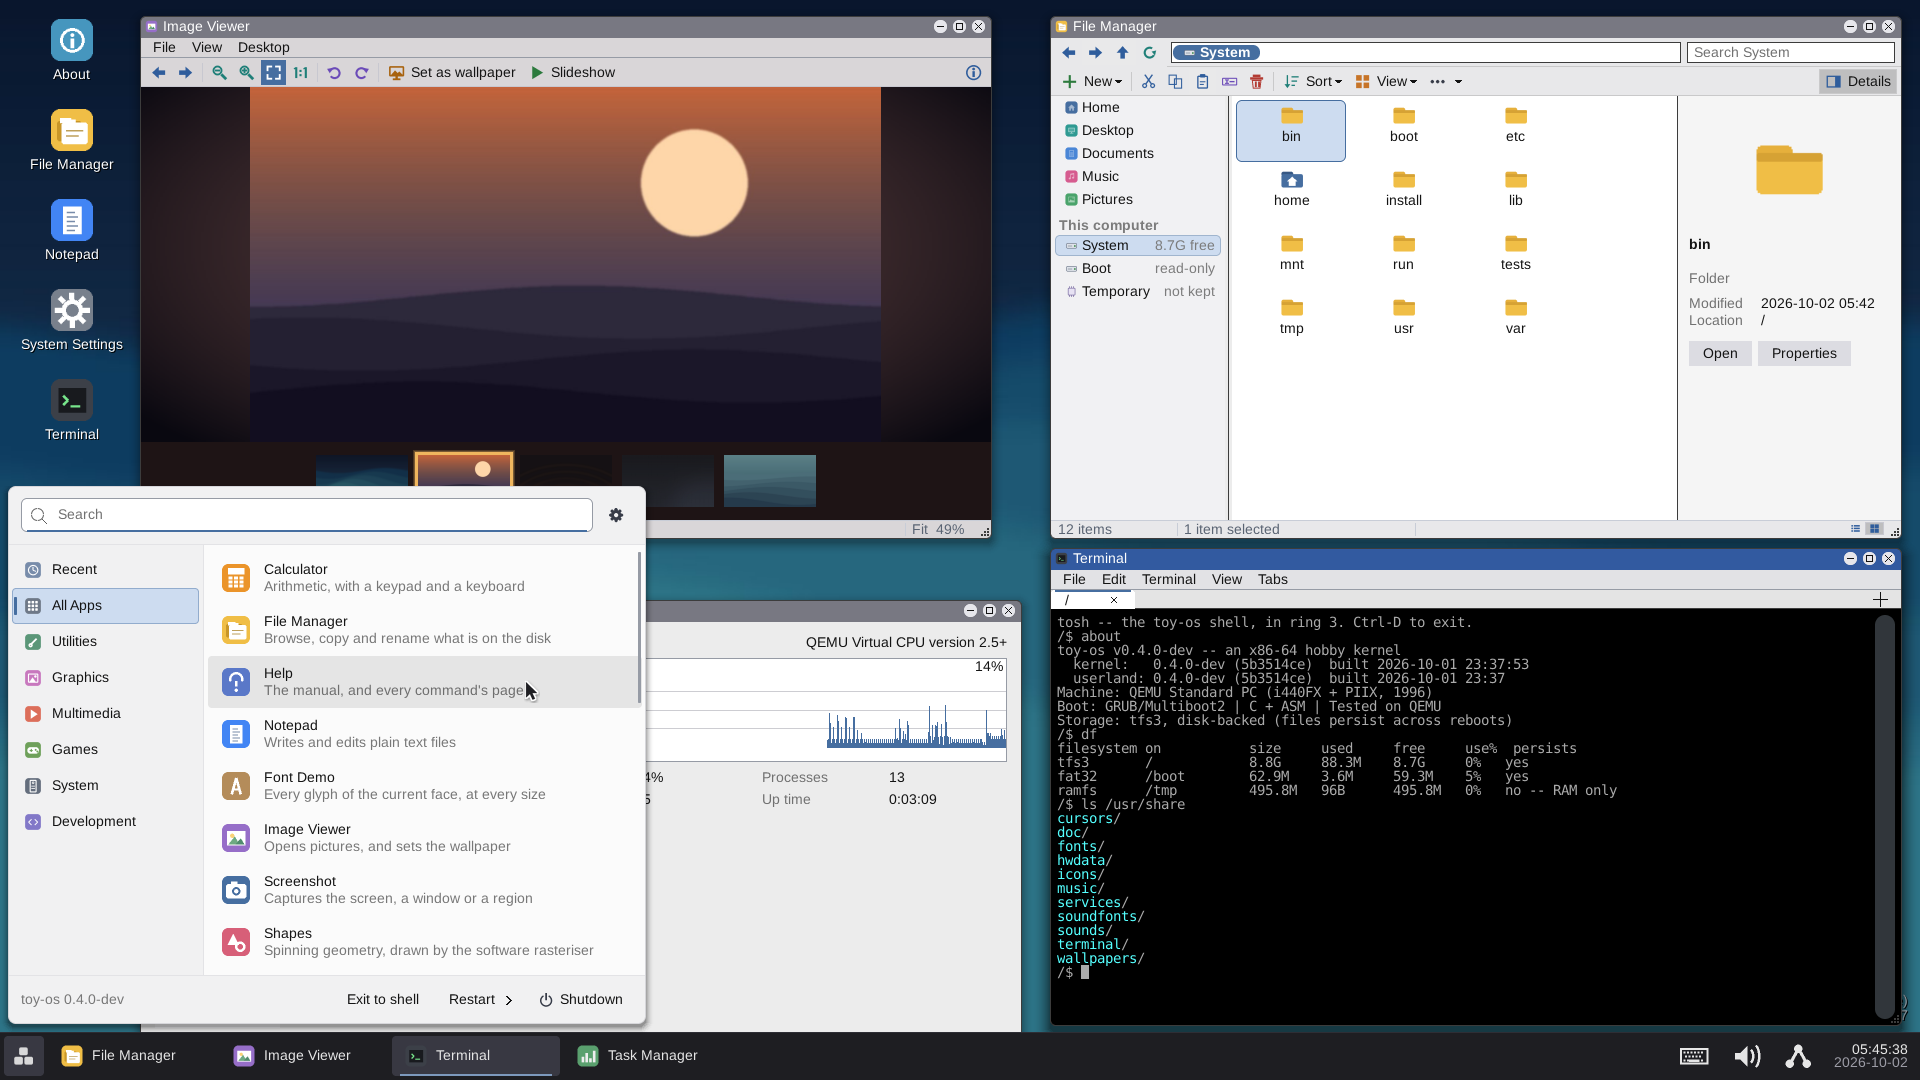
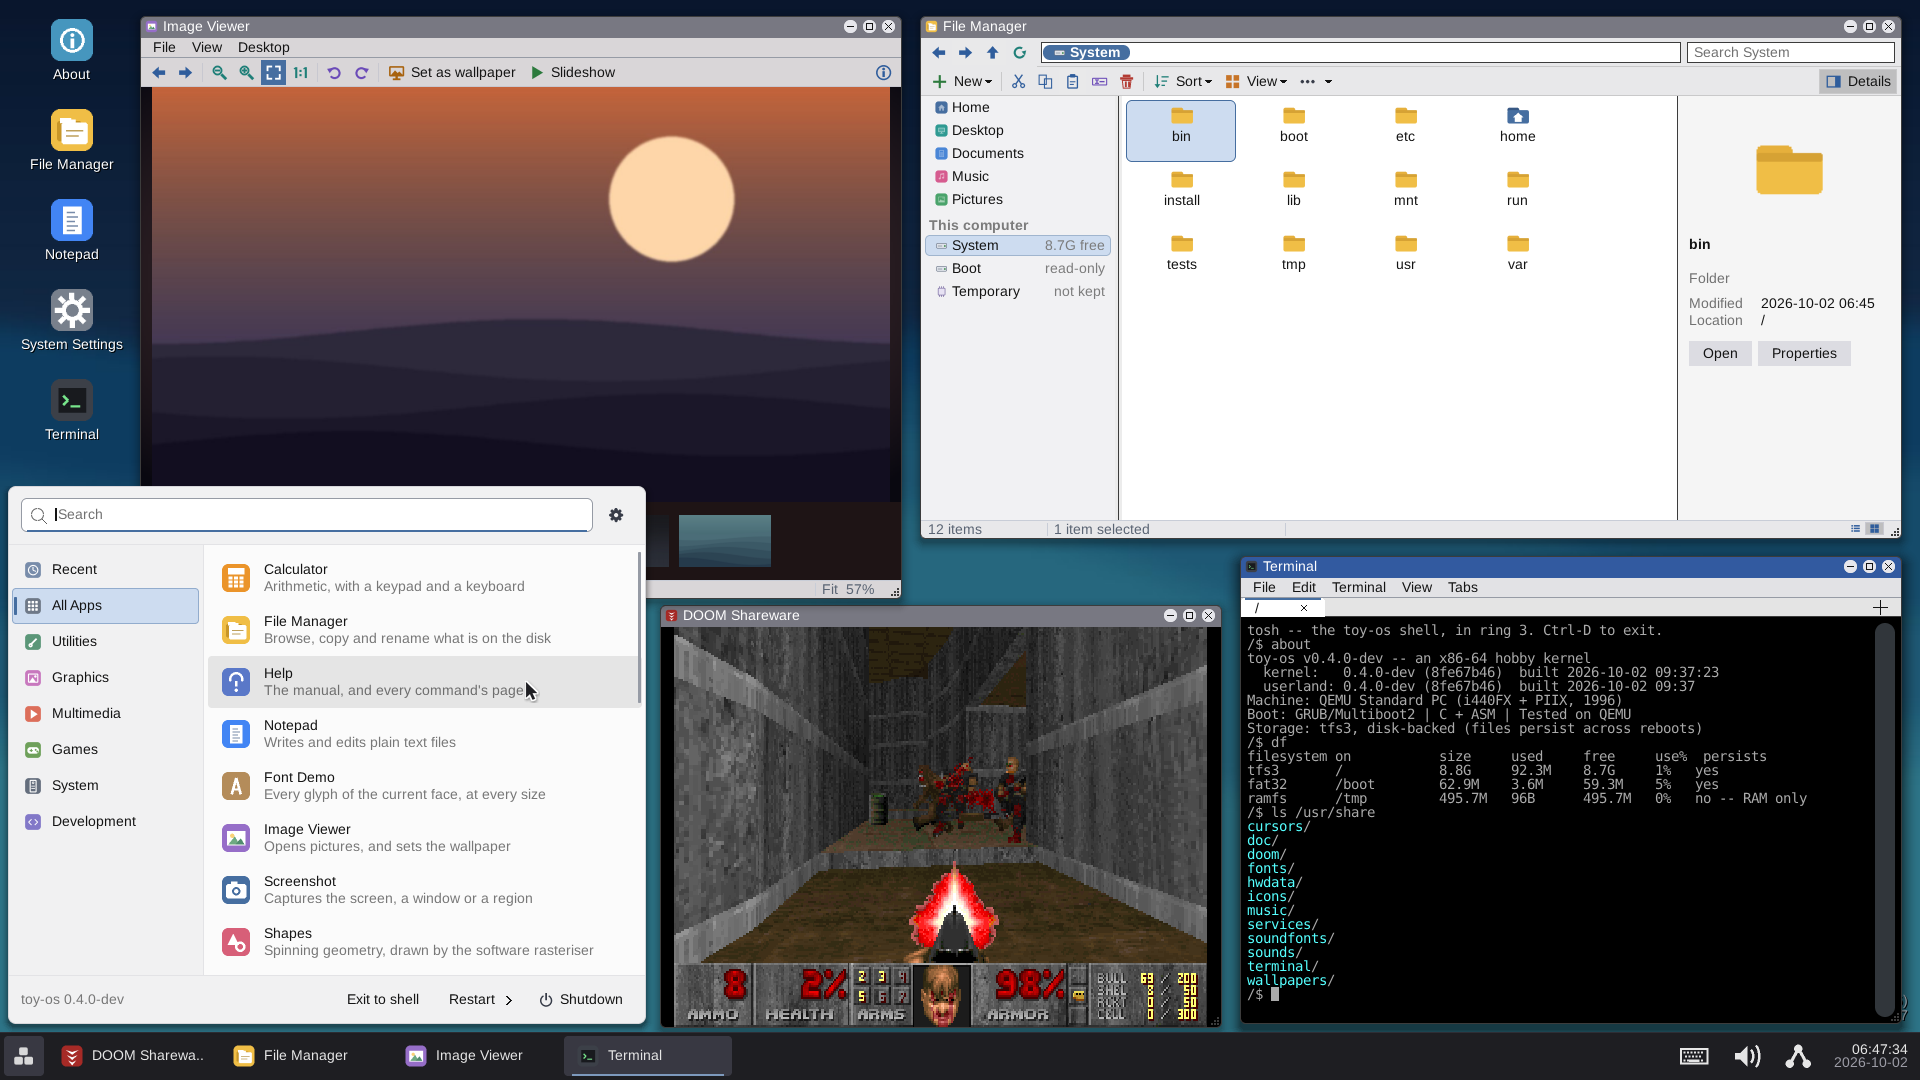
README: DOOM in the desktop picture instead of the Task Manager
The Task Manager sat mostly under the Start menu, and the File
Manager's last column of icons was cut off.

- DOOM (the shareware episode, mid-fight) where the Task Manager was,
  bottom-centre and clear of the Start menu; the Terminal narrows to
  the bottom-right.
- The File Manager widens so its four columns of folders show; the
  Image Viewer gives up the width.
- The alt text names DOOM.

Files:
- screenshots/readme/desktop.png: the retaken picture
- README.md: alt text

diff --git a/README.md b/README.md
@@ -16,7 +16,7 @@
 </p>
 
 <p align="center">
-  <img src="screenshots/readme/desktop.png" alt="toy-os desktop: the Start menu open on All Apps, over the Image Viewer, the File Manager, the Task Manager and a Terminal" width="49%">
+  <img src="screenshots/readme/desktop.png" alt="toy-os desktop: the Start menu open on All Apps, over the Image Viewer, the File Manager, DOOM and a Terminal" width="49%">
   <img src="screenshots/readme/apps.png" alt="toy-os apps: a shaded teapot in Shapes, an MP3 playing in the Audio Player, Minesweeper, the Calculator and the Device Manager showing each device's driver" width="49%">
 </p>
 
